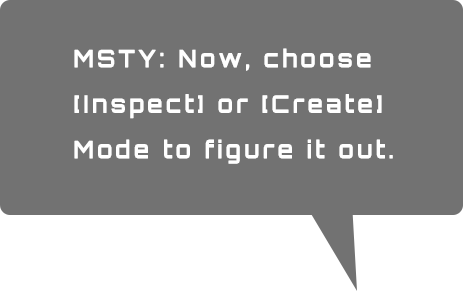
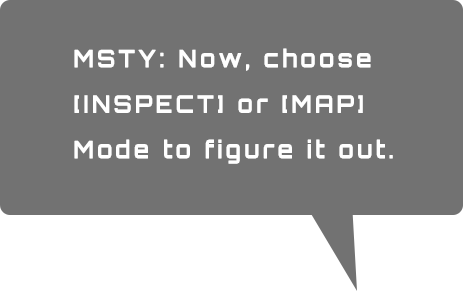
Scripts changed

Changed region(s): [[0.1814, 0.3093, 0.8467, 0.4021]]

diff --git a/src/galaxy/interactions.js b/src/galaxy/interactions.js
@@ -1,6 +1,7 @@
 var start = 0;
 var mapped = 0;
 var currnm = 30;
+var terminated = false;
 
 function updatenm(val){
   if(val != null) {
@@ -185,7 +186,13 @@ Galaxy.InteractionHandler.prototype = {
       // document.getElementById("poe").style.display = "block";
       document.getElementById("inspectBtn").style.display = "block";
       document.getElementById("createBtn").style.display = "block";
-      $('#mstyDialogue5').show();
+      console.log(document.getElementById("mstyDialogue11").style.display);
+      if(document.getElementById("mstyDialogue11").style.display == "inline"){
+        $('#mstyDialogue5').hide();
+      } else{
+        $('#mstyDialogue5').show();
+      }
+
       $('#mstyDialogue1').hide();
       $('#mstyDialogue2').hide();
       $('#mstyDialogue3').hide();
@@ -228,8 +235,8 @@ Galaxy.InteractionHandler.prototype = {
     },
 
     inspectIframe: function() {
-      $('#inspectBtn').fadeOut(3000, function(){});
-      $('#createBtn').fadeOut(3000, function(){});
+      $('#inspectBtn').fadeOut(1100, function(){});
+      $('#createBtn').fadeOut(1000, function(){});
       $('#mstyDialogue5').hide();
       $('#mstyDialogue4').hide();
       $('#mstyDialogue3').hide();
@@ -240,6 +247,7 @@ Galaxy.InteractionHandler.prototype = {
       $('#mstyDialogue8').hide();
       $('#mstyDialogue9').hide();
       $('#mstyDialogue10').hide();
+      $('#mstyDialogue11').show();
       document.getElementById("apoint").style.display = "block";
       document.getElementById("bpoint").style.display = "block";
       document.getElementById("cpoint").style.display = "block";
@@ -263,6 +271,7 @@ Galaxy.InteractionHandler.prototype = {
       if (updatenm() >= 50) {
         $('#inspectBtn').fadeOut(3000, function(){});
         $('#createBtn').fadeOut(3000, function(){});
+        $('#mstyDialogue11').show();
         $('#mstyDialogue5').hide();
         $('#mstyDialogue4').hide();
         $('#mstyDialogue3').hide();
@@ -462,8 +471,8 @@ Galaxy.InteractionHandler.prototype = {
         $('#mstyDialogue1').hide();
         $('#mstyDialogue9').hide();
         $('#mstyDialogue10').hide();
-
-        sleep(6000).then(() => {
+        $('#mstyDialogue11').hide();
+        sleep(11000).then(() => {
           $('#mstyDialogue6').hide();
           $('#mstyDialogue7').show();
           $('#mstyDialogue5').hide();
@@ -474,6 +483,7 @@ Galaxy.InteractionHandler.prototype = {
           $('#mstyDialogue8').hide();
           $('#mstyDialogue9').hide();
           $('#mstyDialogue10').hide();
+          $('#mstyDialogue11').hide();
         });
         var self = this;
         var countForFlags = 0;
@@ -533,6 +543,9 @@ Galaxy.InteractionHandler.prototype = {
     },
 
     iframeSubmitClickEvent: function(e){
+      var self = this;
+      if(document.getElementById("div4").firstChild){
+        terminated = true;
         // submit in mapping
         $('#msty').show();
         $('#mstyDialogue8').hide();
@@ -544,6 +557,7 @@ Galaxy.InteractionHandler.prototype = {
         $('#mstyDialogue2').hide();
         $('#mstyDialogue1').hide();
         $('#mstyDialogue10').hide();
+        $('#mstyDialogue11').hide();
         $('#mstyDialogue9').show();
         sleep(6000).then(() => {
           $('#mstyDialogue6').hide();
@@ -556,8 +570,8 @@ Galaxy.InteractionHandler.prototype = {
           $('#mstyDialogue8').hide();
           $('#mstyDialogue9').hide();
           $('#mstyDialogue10').show();
+          $('#mstyDialogue11').hide();
         });
-        var self = this;
         // socket.emit('changeNeomatter', -50);
         //updatenm(-50);
         // console.log('neomatter changed' + currentNeomatterValue);
@@ -601,6 +615,29 @@ Galaxy.InteractionHandler.prototype = {
         $('#lowershipconsole').show();
         $('body').fadeIn(600, function(){});
       })
+    } else {
+      $('#msty').show();
+      $('#mstyDialogue1').hide();
+      $('#mstyDialogue2').hide();
+      $('#mstyDialogue3').hide();
+      $('#mstyDialogue4').hide();
+      $('#mstyDialogue6').hide();
+      $('#mstyDialogue7').hide();
+      $('#mstyDialogue5').hide();
+      $('#mstyDialogue9').hide();
+      $('#mstyDialogue10').hide();
+      $('#mstyDialogue11').hide();
+      $('#mstyDialogue8').show();
+      $('body').fadeOut(600, function(){
+        $('#iframeDiv').hide();
+        $('#planetMap').show();
+        $('body').fadeIn(600, function(){
+          self.updateProgressBar();
+          $('#uppershipconsole').show();
+          $('#lowershipconsole').show();
+        });
+      });
+    }
         // var self = this;
         // e.preventDefault();
         // e.stopPropagation();

diff --git a/views/index.html b/views/index.html
@@ -142,6 +142,7 @@
       <img id="mstyDialogue6" src="images/Msty_3Dmap3.png">
       <img id="mstyDialogue7" src="images/Msty_3Dmap4.png">
       <img id="mstyDialogue8" src="images/Msty_3Dmap5.png">
+      <img id="mstyDialogue11" src="images/Msty_3Dmap6.png">
       <img id="mstyDialogue9" src="images/Msty_PlanetPage1.png">
       <img id="mstyDialogue10" src="images/Msty_PlanetPage2.png">
       <img id="mstyChar" src="images/Msty.gif" alt="">
@@ -180,13 +181,14 @@
       clicked("start");
       var el = document.getElementById("start");
       // removeFadeOut(el, 3000);
+      $('#start').fadeOut(1000, function(){});
       el.parentNode.removeChild(el);
       $('#uppershipconsole').show();
       $('#lowershipconsole').show();
       $('#msty').show();
       $('#mstyDialogue1').show();
 
-      sleep(5000).then(() => {
+      sleep(8000).then(() => {
         $('#mstyDialogue1').hide();
         $('#mstyDialogue2').show();
       });

diff --git a/src/main.css b/src/main.css
@@ -47,8 +47,8 @@ body {
   display: none;
   position: absolute;
   z-index: 10;
-  top: 25%;
-  right: 20%;
+  top: 28%;
+  right: 23%;
   height: 10%;
   border: none;
   animation: fadein 2s;
@@ -61,7 +61,7 @@ body {
   display: none;
   position: absolute;
   z-index: 10;
-  bottom: 20%;
+  bottom: 24%;
   right: 30%;
   height: 12%;
   border: none;
@@ -203,7 +203,7 @@ body {
     height: 15%;
     padding: 10px;
     top: 35%;
-    right: 37%;
+    right: 34%;
     border: 1px solid #aaaaaa;
 }
 
@@ -464,7 +464,7 @@ body {
   left: 18%;
 }
 
-#mstyDialogue1, #mstyDialogue2, #mstyDialogue3, #mstyDialogue4, #mstyDialogue5, #mstyDialogue6, #mstyDialogue7, #mstyDialogue8, #mstyDialogue9, #mstyDialogue10 {
+#mstyDialogue1, #mstyDialogue2, #mstyDialogue3, #mstyDialogue4, #mstyDialogue5, #mstyDialogue6, #mstyDialogue7, #mstyDialogue8, #mstyDialogue9, #mstyDialogue10, #mstyDialogue11 {
   display: none;
   width: 60%;
   margin-left: 5%;
